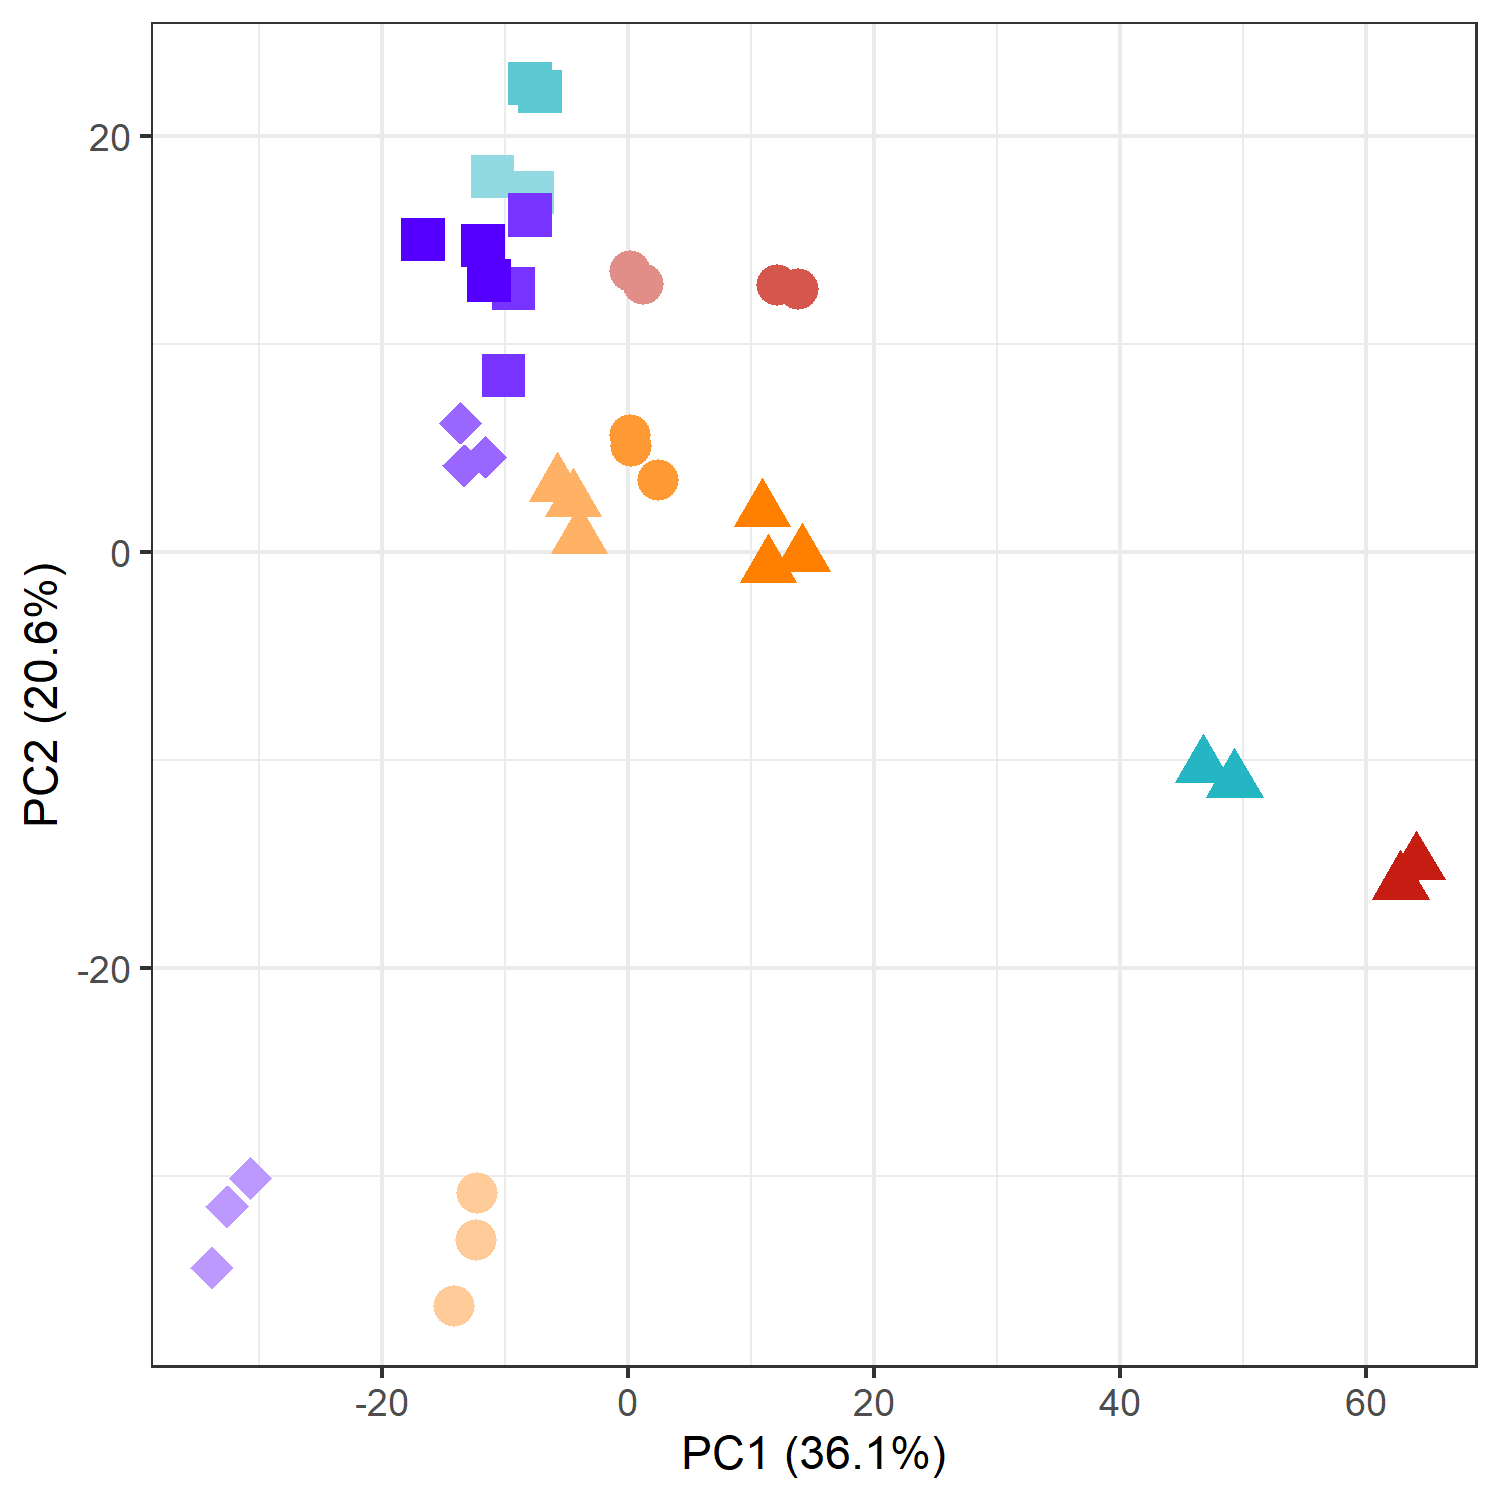
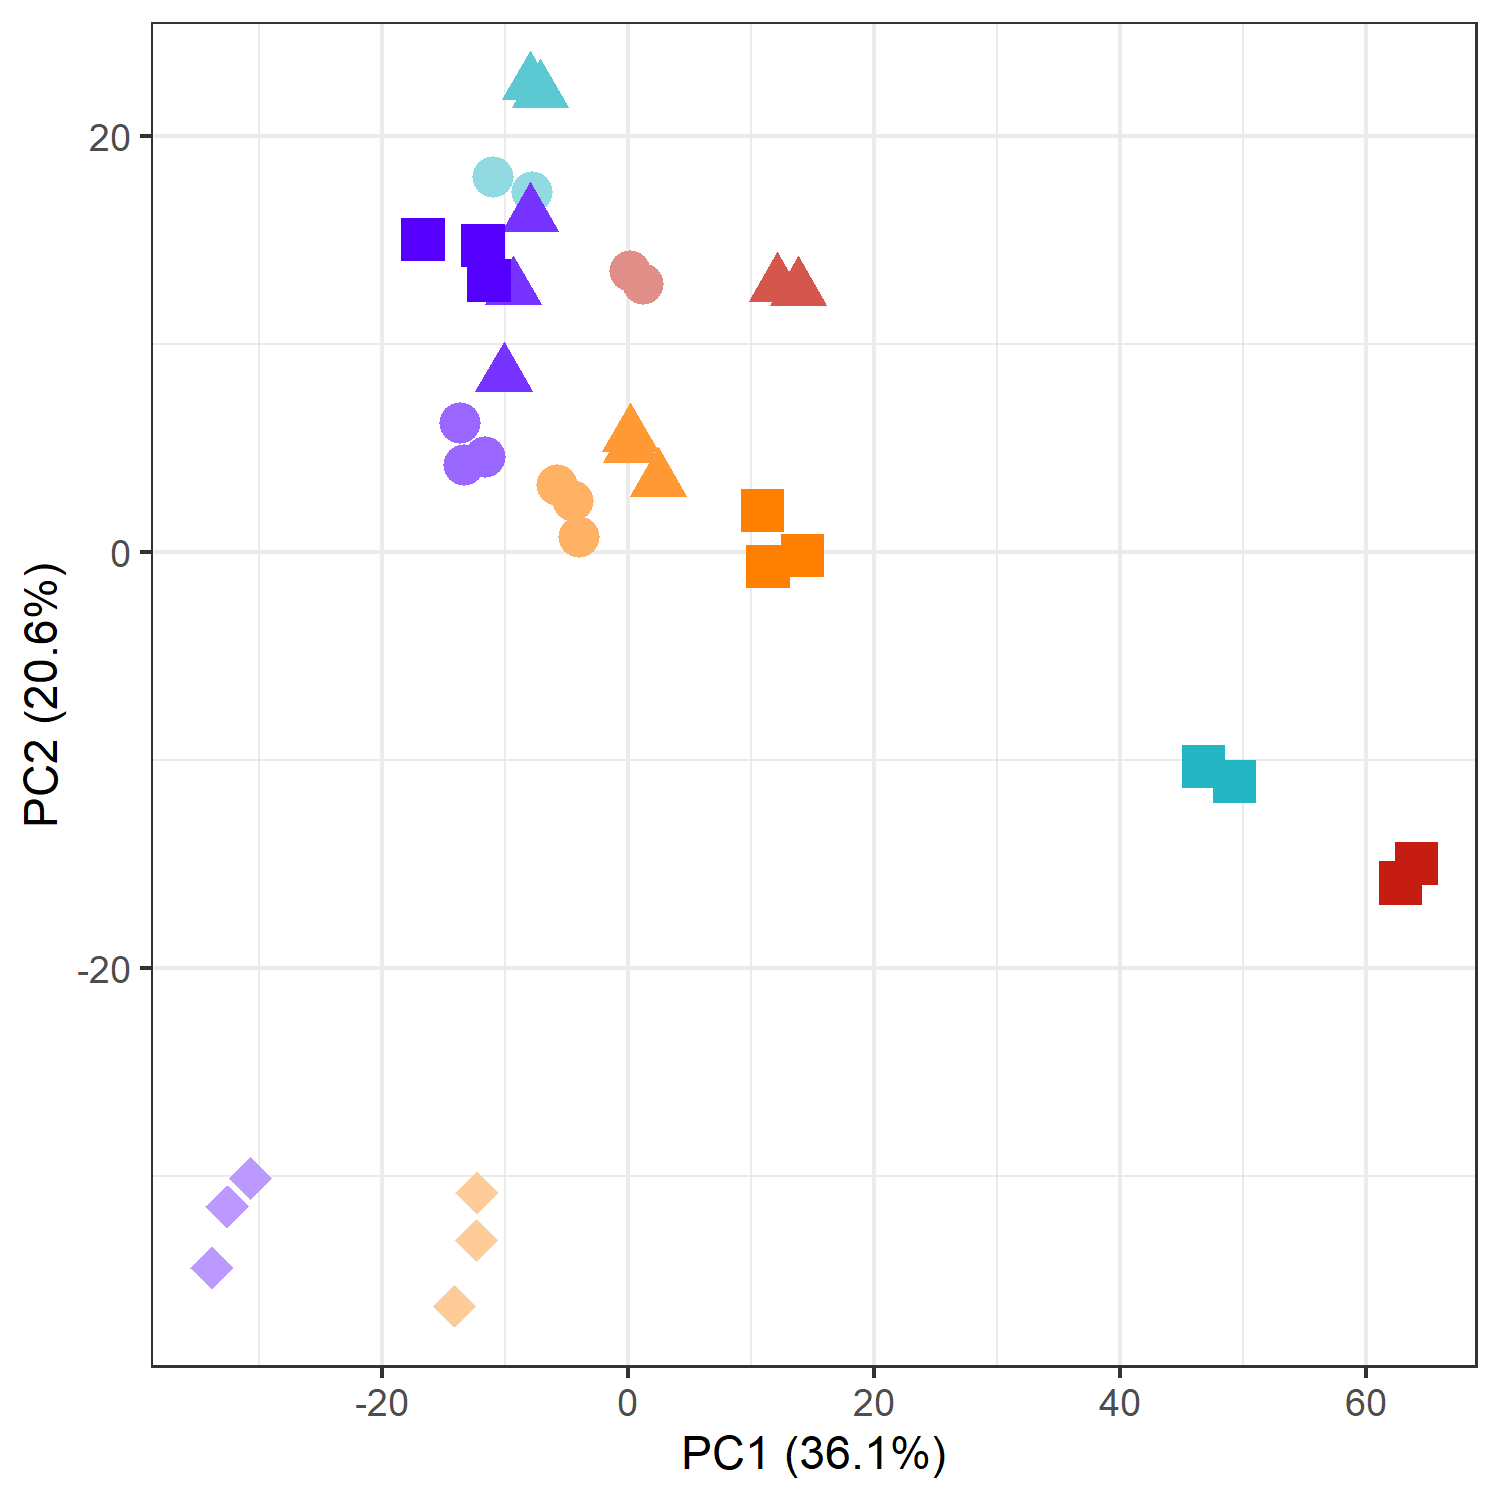
foo

diff --git a/README_v2.md b/README_v2.md
@@ -1720,6 +1720,7 @@ print(dendrogram.plot)
 ```
 
 ![image](/images/hpylori_tpm_kept_dendrogram.png)
+
 ##### Conduct a PCA on the TPM values of all genes that passed CPM cutoff
 
 ```{R,fig.height=5,fig.width=5}
@@ -1728,7 +1729,7 @@ pca.df <- pca.df[rowSums(pca.df == 0) != ncol(pca.df),]
 pca <- PCA(as.data.frame(scale(t(pca.df))), graph = FALSE, ncp = ncol(tpm.keep) - 1)
 
 pca.plot <- ggplot()+
-  geom_point(aes(x=pca$ind$coord[,1], y=pca$ind$coord[,2], color = groups[,2],size = 1, shape = dendroshape))+
+  geom_point(aes(x=pca$ind$coord[,1], y=pca$ind$coord[,2], color = groups[,2],size = 1, shape = groups[,4]))+
   labs(col = "Samples", size = "Reads Mapped\nto Features", 
 	 x = paste0("PC1 (", round(pca$eig[1,2],1), "%)"), 
 	 y = paste0("PC2 (", round(pca$eig[2,2],1), "%)"))+
@@ -1755,7 +1756,6 @@ print(pca.plot)
 ```
 
 ![image](/images/hpylori_tpm_kept_pca.png)
-
 
 #### Divide differentially expressed genes into expression modules
 
@@ -2941,7 +2941,7 @@ pca.df <- pca.df[rowSums(pca.df == 0) != ncol(pca.df),]
 pca <- PCA(as.data.frame(scale(t(pca.df))), graph = FALSE, ncp = ncol(tpm.keep) - 1)
 
 pca.plot <- ggplot()+
-  geom_point(aes(x=pca$ind$coord[,1], y=pca$ind$coord[,2], color = groups[,2],size = 1, shape = dendroshape))+
+  geom_point(aes(x=pca$ind$coord[,1], y=pca$ind$coord[,2], color = groups[,2],size = 1, shape = groups[,4]))+
   labs(col = "Samples", size = "Reads Mapped\nto Features", 
 	 x = paste0("PC1 (", round(pca$eig[1,2],1), "%)"), 
 	 y = paste0("PC2 (", round(pca$eig[2,2],1), "%)"))+
